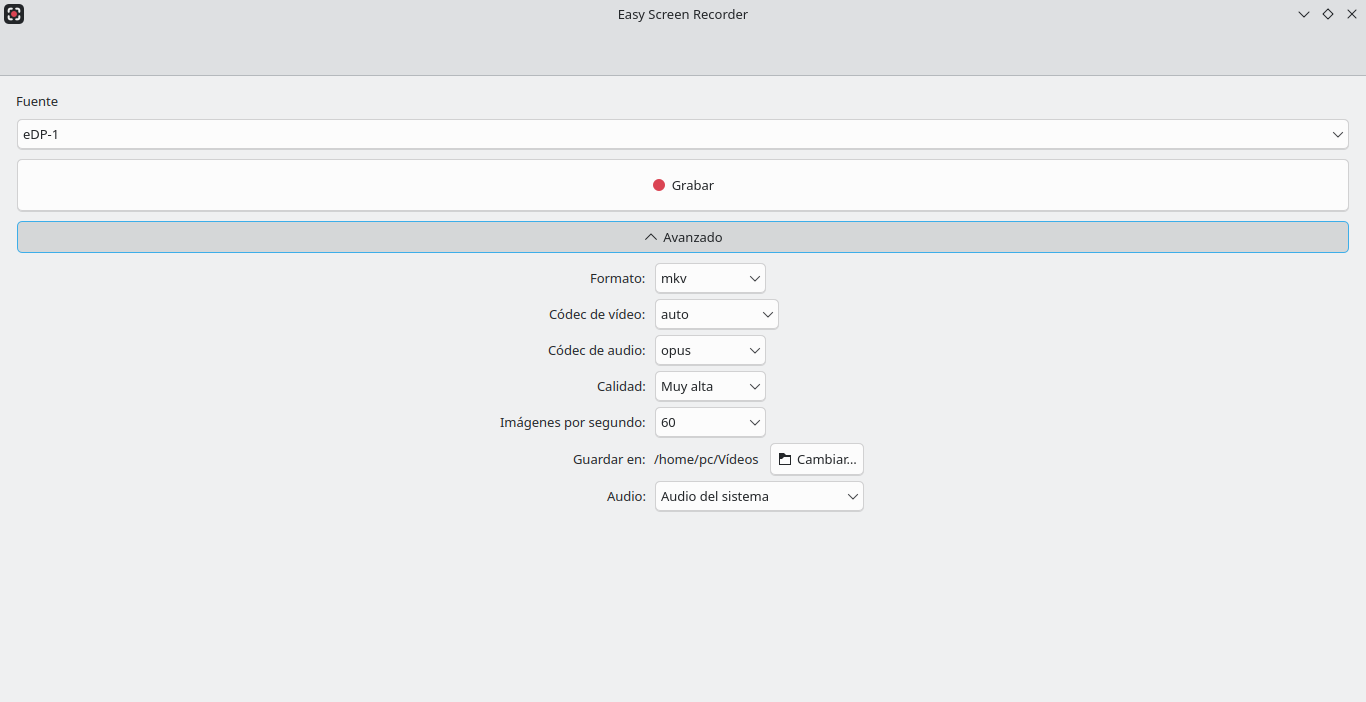
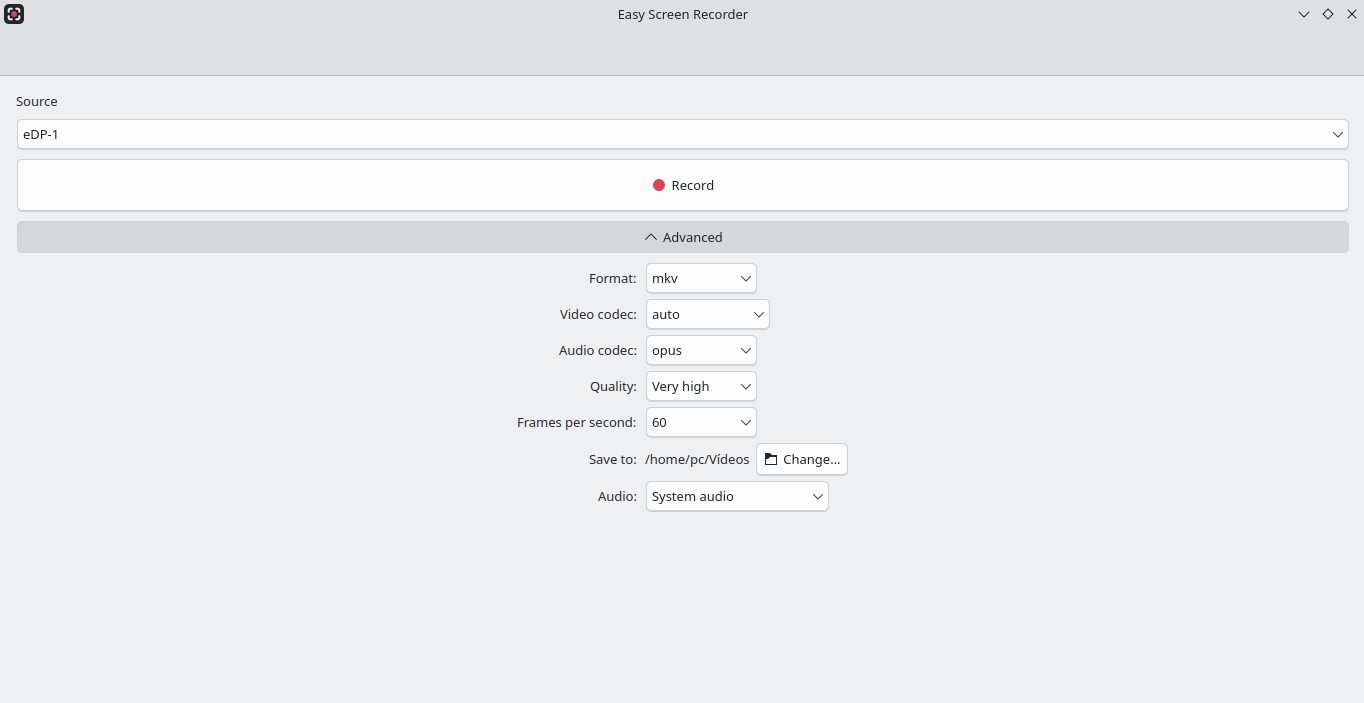
Disena pantalla + webcam, con las tres vias medidas
Pedido por el titular: grabar pantalla y webcam con el tamano y la esquina de la
webcam elegibles. Esto es el diseno, no la implementacion, y va antes de tocar
codigo porque cambia el modelo de la aplicacion.

Lo primero: grabar SOLO la webcam ya funciona hoy. Esta en el desplegable y
graba, verificado a 1280x720 h264. Lo unico que le falta es cosmetica.

LA DECISION DE FONDO, y no es tecnica. GSR soporta superposicion en vivo con su
sistema de plugins: -p plugin.so, con una funcion draw() que recibe el
framebuffer y un contexto OpenGL; su manual lo llama «Plugin system for custom
graphics overlay». Se descarta porque un plugin se carga DENTRO del proceso de
GSR, y eso es obra combinada: GSR es GPL-3.0-only, asi que ese plugin no se
podria licenciar comercialmente. Seria el primer componente fuera del modelo
dual y el razonamiento entero de LICENSING.md dejaria de valer para el.

LO MEDIDO, que es lo que hace viable la alternativa:

- Dos procesos de GSR grabando a la vez, camara y pantalla: funciona, cero
  errores, 769 y 540 paquetes de video, las dos en la misma GPU.
- Composicion de 20 s de 1080p30, tres vias:
    todo en CPU (libx264 veryfast)          9,55 s   0,48x de lo grabado
    todo en GPU (scale_vaapi+overlay_vaapi) FALLA    «Function not implemented»
    mezcla en CPU + codificacion en GPU     3,37 s   0,17x

La tercera es la que va, y el motivo importa: mezclar dos fotogramas es barato,
[…]

diff --git a/docs/ROADMAP.md b/docs/ROADMAP.md
@@ -6,10 +6,18 @@ SPDX-License-Identifier: GPL-3.0-or-later
 
 # Hoja de ruta
 
-Escrito el 15 de septiembre de 2026. Dos partes: la frontera del backend de
-captura, que es deuda técnica con nombre y apellidos, y la distribución —
-Flathub, luego `.deb`, y **Windows descartado** con su motivo escrito para que no
-se reabra sin datos nuevos.
+Escrito el 15 de septiembre de 2026, ampliado el 16.
+
+| Parte | Qué es |
+|---|---|
+| **1 · Frontera del backend** | Deuda técnica con nombre y apellidos |
+| **2 · Pantalla y webcam juntas** | Funcionalidad pedida, con el diseño medido |
+| **3 · Mensajes del núcleo en inglés** | Lo que quedó fuera de la traducción |
+| **4 · Distribución** | Flathub, luego `.deb`, y **Windows descartado** con su motivo escrito para que no se reabra sin datos nuevos |
+
+Las tres primeras comparten un prerrequisito y no es casualidad: **la matriz de
+`verify-recording.sh`**. Las tres tocan los ficheros donde un error no rompe una
+compilación, rompe una grabación.
 
 ---
 
@@ -45,7 +53,7 @@ localizadas:
 **Veredicto: no está aislada.** Si mañana hubiera que cambiar de backend habría
 que tocar QML, no solo `libesr`.
 
-Con Windows descartado (ver Parte 2), esto **deja de ser urgente**: hoy hay un
+Con Windows descartado (ver Parte 4), esto **deja de ser urgente**: hoy hay un
 solo backend y no se prevé un segundo. Pasa de deuda que bloquea a deuda que
 conviene. Los dos motivos que la mantienen en la lista son que el plan de
 pruebas que exige —la matriz de `verify-recording.sh`— es bueno por sí mismo, y
@@ -147,7 +155,143 @@ bisecar.
 
 ---
 
-# Parte 1 bis · Traducir los mensajes del núcleo
+# Parte 2 · Pantalla y webcam juntas
+
+Pedido por el titular el 2026-09-16: grabar pantalla y webcam, **con el tamaño y
+la esquina de la webcam elegibles**. Esto es el diseño, medido antes de escribir
+código. No está implementado.
+
+## Lo que ya funciona hoy y no hay que tocar
+
+**Grabar solo la webcam.** Está en el desplegable como `/dev/video0` y graba;
+verificado: 1280×720 h264. Lo único que le falta es cosmética, y está en la
+lista de UX: se enseña con su nombre de dispositivo y aparece una vez por cada
+modo que reporta GSR.
+
+## La decisión de fondo: post-proceso, no plugin
+
+GSR soporta superposición **en vivo** con su sistema de plugins: `-p plugin.so`,
+con una función `draw()` que recibe el framebuffer y un contexto OpenGL. Su
+manual lo llama «Plugin system for custom graphics overlay», así que
+técnicamente es la vía prevista.
+
+**Se descarta, y no por dificultad.** Un plugin se carga *dentro del proceso de
+GSR*, y eso es obra combinada: GSR es GPL-3.0-**only**, así que ese plugin no se
+podría licenciar comercialmente. Sería el primer componente fuera del modelo
+dual, y el razonamiento entero de `docs/LICENSING.md` —que se apoya en que GSR
+es un proceso externo sin enlazar— dejaría de ser cierto para él.
+
+Si algún día un cliente paga la superposición en vivo, el cálculo es otro y es
+suyo. Hasta entonces: dos procesos y composición después.
+
+## Lo medido, que es lo que hace viable el diseño
+
+### Dos grabaciones a la vez: funciona
+
+Dos procesos de GSR simultáneos, cámara y pantalla, **cero errores** en los
+logs: 769 paquetes de vídeo en la cámara (1280×720) y 540 en la pantalla
+(1366×768), las dos codificando en la misma GPU sin contención.
+
+### Composición: tres vías, y solo una sirve
+
+Medido sobre 20 s de 1080p30 sintético, en el i5-6200U con HD Graphics 520:
+
+| Vía | Tiempo | Factor sobre lo grabado |
+|---|---|---|
+| Todo en CPU (`libx264 -preset veryfast`) | 9,55 s | **0,48×** |
+| Todo en GPU (`scale_vaapi` + `overlay_vaapi`) | **falla** | `overlay_vaapi` da «Function not implemented» en esta GPU, incluso en el caso mínimo |
+| **Mezcla en CPU + codificación en GPU** | **3,37 s** | **0,17×** |
+
+**La tercera es la que va**, y el motivo importa: la mezcla de dos fotogramas es
+barata, lo caro es codificar. Dejando el `overlay` en CPU y el `h264_vaapi` en
+GPU se gana casi el triple. Verificado visualmente: la webcam aparece a su
+tamaño y en su esquina.
+
+Que la primera vía cueste el 48 % del tiempo grabado **no es un detalle**: para
+un tutorial de media hora son catorce minutos de CPU a tope, que es exactamente
+lo que esta aplicación promete evitar. Si algún día la mezcla en GPU funciona en
+otra máquina, se usa; el código debe poder elegir.
+
+### La receta
+
+```bash
+ffmpeg -init_hw_device vaapi=va:/dev/dri/renderD128 -filter_hw_device va \
+  -i pantalla.mkv -i camara.mkv \
+  -filter_complex "[1:v]scale=384:-2[pip];\
+                   [0:v][pip]overlay=W-w-32:H-h-32,format=nv12,hwupload[v]" \
+  -map "[v]" -map 0:a? -c:v h264_vaapi -qp 23 compuesto.mkv
+```
+
+Dos detalles que cuestan una tarde si se descubren tarde:
+
+- **`scale=384:-2` y no `-1`.** El `-2` fuerza altura par, que es lo que H.264
+  necesita. Con `-1` sale una altura impar y el codificador la rechaza.
+- **`format=nv12,hwupload` antes del codificador.** Sin eso, la mezcla se queda
+  en memoria de CPU y `h264_vaapi` no la acepta.
+
+Tamaño y esquina son parámetros: el `384` del `scale` y las cuatro expresiones
+de `overlay` —`24:24`, `W-w-24:24`, `24:H-h-24`, `W-w-24:H-h-24`—.
+
+## El cambio de modelo, que es la parte de diseño
+
+Hoy hay **una** sesión de pantalla (`~/.cache/easy-screen-recorder/sesion`) y
+**una** de audio (`sesion-audio`), con cerrojos separados. La webcam añade una
+tercera.
+
+**Y la clave para no complicarlo: no son dos grabaciones, es UNA con dos
+fuentes.** Empiezan juntas, paran juntas y se pausan juntas, porque es lo que el
+usuario pide. Con eso, el estado de la interfaz sigue siendo un solo valor y no
+hay que rehacer la máquina de estados: `grabando` cubre las dos.
+
+Lo que sí cambia:
+
+| Qué | Cómo |
+|---|---|
+| Sesión de la cámara | `sesion-camara/`, con su socket IPC, su pid y su log. Mismo patrón que `sesion-audio`, que ya existe |
+| Arranque | Los dos procesos, y **si el segundo falla, se para el primero**. Media grabación es peor que ninguna |
+| Parada | Los dos por IPC, y esperar los dos ficheros antes de dar por terminado |
+| Ajustes | `AjustesGrabacion` gana `camara` (dispositivo o vacío), `pip_ancho` y `pip_esquina` |
+| Estado nuevo | `componiendo`, porque al parar ya no se acaba: empieza un ffmpeg que tarda |
+
+### Los tres problemas que ya aparecieron en las pruebas
+
+**1. La cámara se queda ocupada.** Lo topé tres veces:
+`VIDIOC_S_FMT failed, error: Device or resource busy`. La causa está localizada:
+**el envoltorio de `flatpak run` no propaga el SIGINT** al GSR de dentro, y un
+proceso huérfano con `/dev/video0` abierto bloquea la siguiente grabación. El
+usuario solo vería «busy».
+
+No afecta a la pantalla, que se para por IPC. Para la cámara hay que pararla por
+IPC igual, y además detectar el caso: si el dispositivo está ocupado, decir *qué*
+lo tiene en vez de repetir el error del driver.
+
+**2. La composición puede fallar, y los originales tienen que sobrevivir.** Si
+el ffmpeg revienta, el usuario se queda con `pantalla.mkv` y `camara.mkv`, que
+es una salida perfectamente válida. **Nunca borrar los originales antes de
+confirmar que el compuesto existe y tiene duración.** Y decírselo: «no se pudo
+componer, tienes los dos ficheros en …».
+
+**3. Componer no es gratis.** 0,17× del tiempo grabado con la GPU codificando.
+Para media hora de grabación son cinco minutos. Eso se avisa **antes** de
+empezar, no después: la casilla de componer debería decir el coste aproximado.
+
+## Las dos tandas
+
+**Tanda A · Dos ficheros.** Pantalla y webcam a la vez, cada una a su fichero,
+sin composición. Es la mitad del valor por una fracción del coste, y es lo que
+quiere quien va a editar: dos pistas dan más libertad que un vídeo ya compuesto.
+Aquí está todo el cambio de modelo.
+
+**Tanda B · Composición opcional.** La casilla de «componer al terminar», con
+tamaño y esquina. El patrón de post-proceso ya está pensado en
+`docs/post-proceso.md`, de la Tanda 6.
+
+**Orden con lo demás:** la Tanda A toca `grabacion.cpp`, que es donde la Parte 1
+avisa de que un error no rompe una compilación sino una grabación. **Antes va la
+matriz de `verify-recording.sh`.** Es la misma red que piden la Parte 1 y la
+Parte 3, y sirve para las tres.
+
+# Parte 3 · Traducir los mensajes del núcleo
 
 La interfaz ya es bilingüe: 45 cadenas traducidas, con el idioma elegido según
 el del sistema. Lo que sigue en castellano son **~47 mensajes de error de
@@ -184,7 +328,7 @@ tests: rompe una grabación, y probablemente en la combinación que nadie prueba
 **Se hace después de la matriz de `verify-recording.sh`**, no antes. Es la misma
 red que pide la Parte 1, y sirve para las dos.
 
-# Parte 2 · Distribución
+# Parte 4 · Distribución
 
 ## Fase 1 · Flathub
 

diff --git a/CHANGELOG.md b/CHANGELOG.md
@@ -5,6 +5,17 @@ máquina de desarrollo.
 
 ## Sin publicar
 
+### Diseño de pantalla + webcam (2026-09-16)
+- `docs/ROADMAP.md` gana la Parte 2 con el diseño medido, **sin implementar**.
+- Lo medido: dos grabaciones de GSR a la vez funcionan sin contención, y la
+  composición con `ffmpeg` sale a **0,17× del tiempo grabado** mezclando en CPU
+  y codificando en GPU, frente a 0,48× haciéndolo todo en CPU.
+- `overlay_vaapi` **no funciona** en esta GPU: «Function not implemented»
+  incluso en el caso mínimo. La composición entera en GPU no es una opción aquí.
+- Se descarta el plugin de GSR, que sería la vía para superponer en vivo: se
+  carga dentro de su proceso y rompería el modelo dual.
+- Capturas de pantalla rehechas en inglés.
+
 ### Interfaz en inglés (2026-09-16)
 - **La interfaz sigue el idioma del sistema**: castellano si el sistema está en
   castellano, inglés en cualquier otro caso. 45 cadenas traducidas, con el
